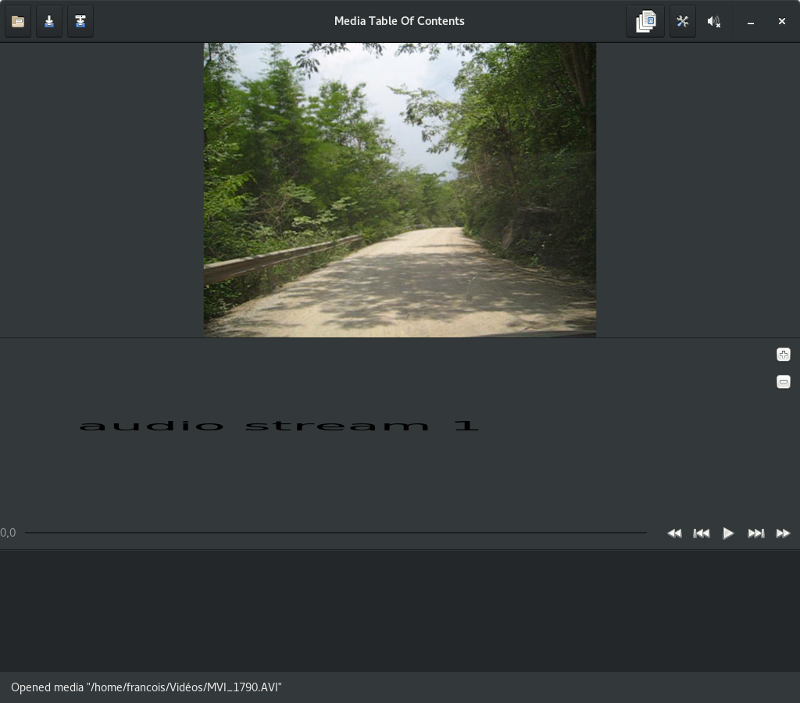
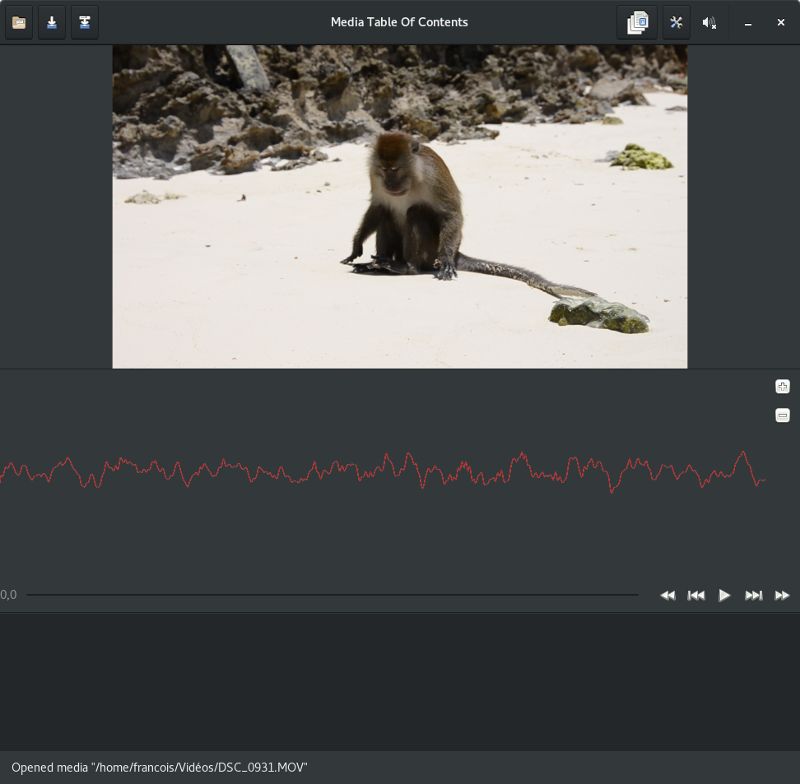
Display wave form (#1)

diff --git a/src/ui/audio_controller.rs b/src/ui/audio_controller.rs
@@ -49,8 +49,17 @@ impl AudioController {
     fn build_graph(&mut self, decoder: &ffmpeg::codec::decoder::Audio) {
         let mut graph = ffmpeg::filter::Graph::new();
 
+        // Fix broken channel layouts
+        let channel_layout = match decoder.channel_layout().bits() {
+            0 => match decoder.channels() {
+                1 => ffmpeg::channel_layout::MONO,
+                2 => ffmpeg::channel_layout::FRONT_LEFT | ffmpeg::channel_layout::FRONT_RIGHT | ffmpeg::channel_layout::STEREO,
+                _ => panic!("Unknown channel layout"),
+            },
+            _ => decoder.channel_layout(),
+        };
         let args = format!("time_base={}:sample_rate={}:sample_fmt={}:channel_layout=0x{:x}",
-            decoder.time_base(), decoder.rate(), decoder.format().name(), decoder.channel_layout().bits());
+            decoder.time_base(), decoder.rate(), decoder.format().name(), channel_layout.bits());
 
         let in_filter = ffmpeg::filter::find("abuffer").unwrap();
         match graph.add(&in_filter, "in", &args) {
@@ -65,7 +74,7 @@ impl AudioController {
         }
         {
             let mut out_pad = graph.get("out").unwrap();
-            out_pad.set_sample_format(ffmpeg::format::Sample::I16(ffmpeg::format::sample::Type::Packed));
+            out_pad.set_sample_format(ffmpeg::format::Sample::I16(ffmpeg::format::sample::Type::Planar));
         }
 
         {
@@ -99,47 +108,20 @@ impl AudioController {
         while let Ok(..) = graph.get("out").unwrap().sink().frame(&mut frame_pcm) {
         }
 
-        assert!(frame_pcm.planes() == 1); // samples converted to I16::Packed
-        {
-            let channels_nb = frame_pcm.channels() as usize;
-            let mut channels = Vec::with_capacity(channels_nb);
-            for index in 0..channels_nb {
-                // TODO: reserve target capacity
-                channels.push(Vec::new());
-            }
-            // FIXME: this doesn't seem rust like iteration to me
-            let mut keep_going = true;
-            let mut sample_iter = frame_pcm.data(0).iter();
-            while keep_going {
-                for index in 0..channels_nb {
-                    let mut sample: i16 = 0;
-                    if let Some(sample_byte) = sample_iter.next() {
-                        sample = *sample_byte as i16;
-                    }
-                    else {
-                        keep_going = false;
-                        break;
-                    }
-
-                    if let Some(sample_byte) = sample_iter.next() {
-                        // TODO: validate this
-                        channels[index].push(sample + ((*sample_byte as i16) << 8));
-                    }
-                    else {
-                        keep_going = false;
-                        break;
-                    }
-                }
-            }
-
-            for index in 0..channels_nb {
-                println!("\tChannel {}", index);
-                let mut sample_str = String::new();
-                for sample in &channels[index] {
-                    sample_str += &format!("{:4x} ", sample);
-                }
-                println!("\t\tsamples {}", sample_str);
-            }
+        let planes_nb = frame_pcm.planes();
+        println!("Converted frame: {} planes - {} samples - {} channels - is key: {} - is corrupt: {} - quality: {}",
+                 frame_pcm.planes(), frame_pcm.samples(), frame_pcm.channels(),
+                 frame_pcm.is_key(), frame_pcm.is_corrupt(), frame_pcm.quality());
+        match frame_pcm.pts() {
+            Some(pts) => println!("\tpts {}", pts),
+            None => (),
+        }
+        match frame_pcm.timestamp() {
+            Some(timestamp) => println!("\ttimestamp {}", timestamp),
+            None => (),
+        }
+        for index in 0..planes_nb {
+            println!("\tplane {} - len: {}", index, frame_pcm.plane::<i16>(index).len());
         }
 
         Ok(frame_pcm)
@@ -147,13 +129,58 @@ impl AudioController {
 
     fn draw(&self, cr: &cairo::Context) {
         let allocation = self.drawingarea.get_allocation();
-        cr.scale(allocation.width as f64, allocation.height as f64);
 
-        cr.select_font_face("Sans", FontSlant::Normal, FontWeight::Normal);
-        cr.set_font_size(0.07);
+        match self.frame {
+            Some(ref frame) => {
+                let offset = (::std::i16::MAX / 2) as i32;
+                cr.scale(
+                    allocation.width as f64 / frame.samples() as f64,
+                    allocation.height as f64 / 2f64 / offset as f64,
+                );
+                cr.set_line_width(1f64);
 
-        cr.move_to(0.1, 0.53);
-        cr.show_text(&self.message);
+                let mut ymin = offset as f64;
+                let mut ymax = 0f64;
+                let planes_nb = frame.planes();
+                for index in 0..planes_nb {
+                    let colors = vec![(0.8f64, 0.8f64, 0.8f64), (0.8f64, 0f64, 0f64)][index];
+                    cr.set_source_rgb(colors.0, colors.1, colors.2);
+
+                    let mut is_first = true;
+                    let mut x = 0f64;
+                    for sample in frame.plane::<i16>(index) {
+                        let y = (offset - *sample as i32) as f64;
+                        match is_first {
+                            true => {
+                                cr.move_to(x, y);
+                                is_first = false;
+                            },
+                            false => {
+                                cr.line_to(x, y);
+                            },
+                        }
+                        x += 1f64;
+
+                        if y < ymin {
+                            ymin = y;
+                        }
+                        if y > ymax {
+                            ymax = y;
+                        }
+                    }
+                    cr.stroke();
+                }
+            },
+            None => {
+                cr.scale(allocation.width as f64, allocation.height as f64);
+
+                cr.select_font_face("Sans", FontSlant::Normal, FontWeight::Normal);
+                cr.set_font_size(0.07);
+
+                cr.move_to(0.1, 0.53);
+                cr.show_text(&self.message);
+            },
+        }
     }
 }
 
